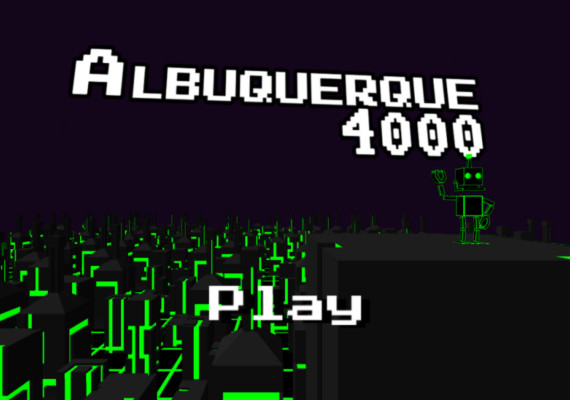
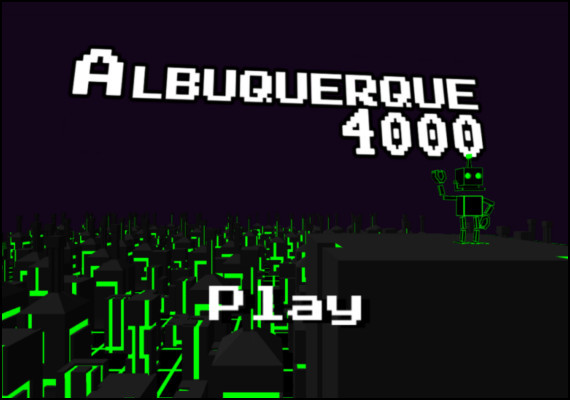
Added Onevione noob! and a black border to all the other works.

diff --git a/index.html b/index.html
@@ -97,6 +97,13 @@
 </a>
 <img src=include/img/work/thumbs/superredropepuzzles.jpg alt>
 </li>
+<li class="item-thumbs span3 design">
+<a href=https://kurnic.wordpress.com/portfolio/onevione-noob/ class=external target=_blank><big>Onevione Noob!</big></a>
+<a class="hover-wrap fancybox" data-fancybox-group=gallery title="Onevione Noob!" href=https://kurnic.wordpress.com/portfolio/onevione-noob/ class=external target=_blank>
+<span class=overlay-img><br><br><br><h2 class=title align=center>September 2015</h2></span>
+</a>
+<img src=include/img/work/thumbs/onevione.jpg alt>
+</li>
 <li class="item-thumbs span3 art">
 <a href=https://kurnic.wordpress.com/portfolio/minion-kinton-t-shirt-design/ class=external target=_blank><big>Minion Kinton T-shirt Design </big></a>
 <a class="hover-wrap fancybox" data-fancybox-group=gallery title="Minion Kinton T-shirt Design" href=https://kurnic.wordpress.com/portfolio/minion-kinton-t-shirt-design/ class=external target=_blank>
